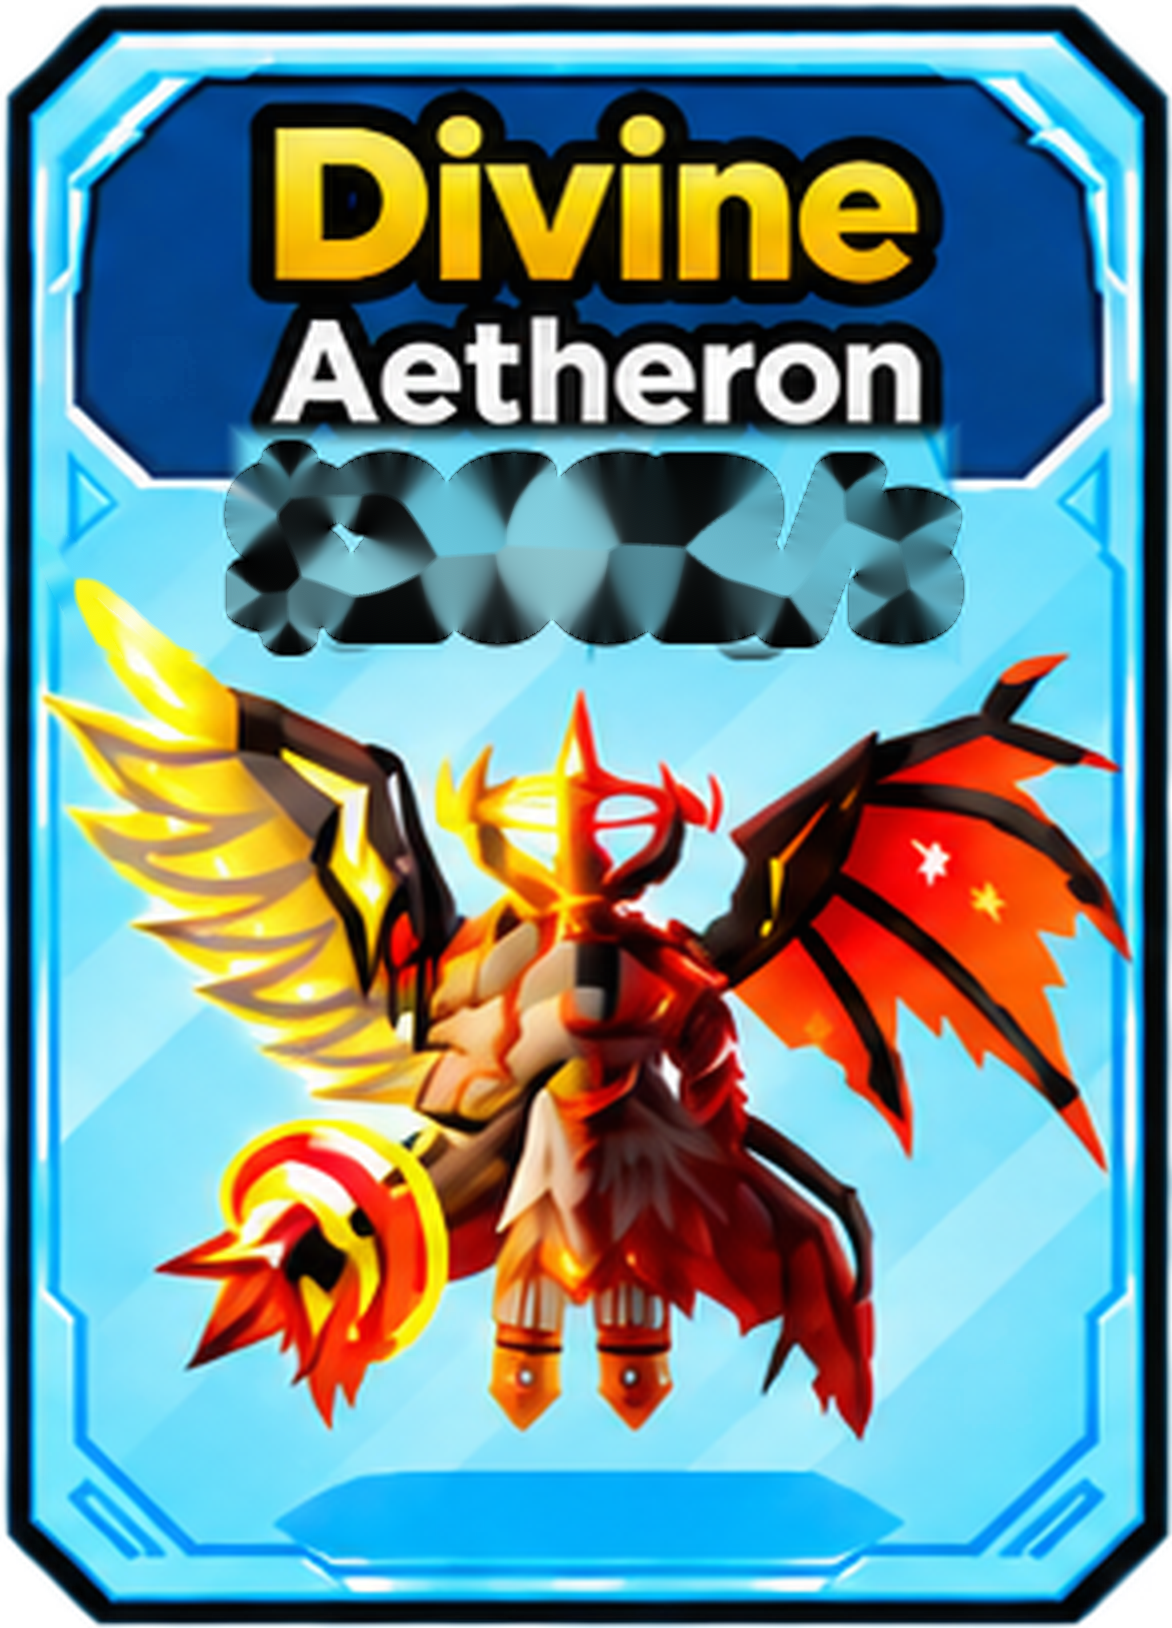
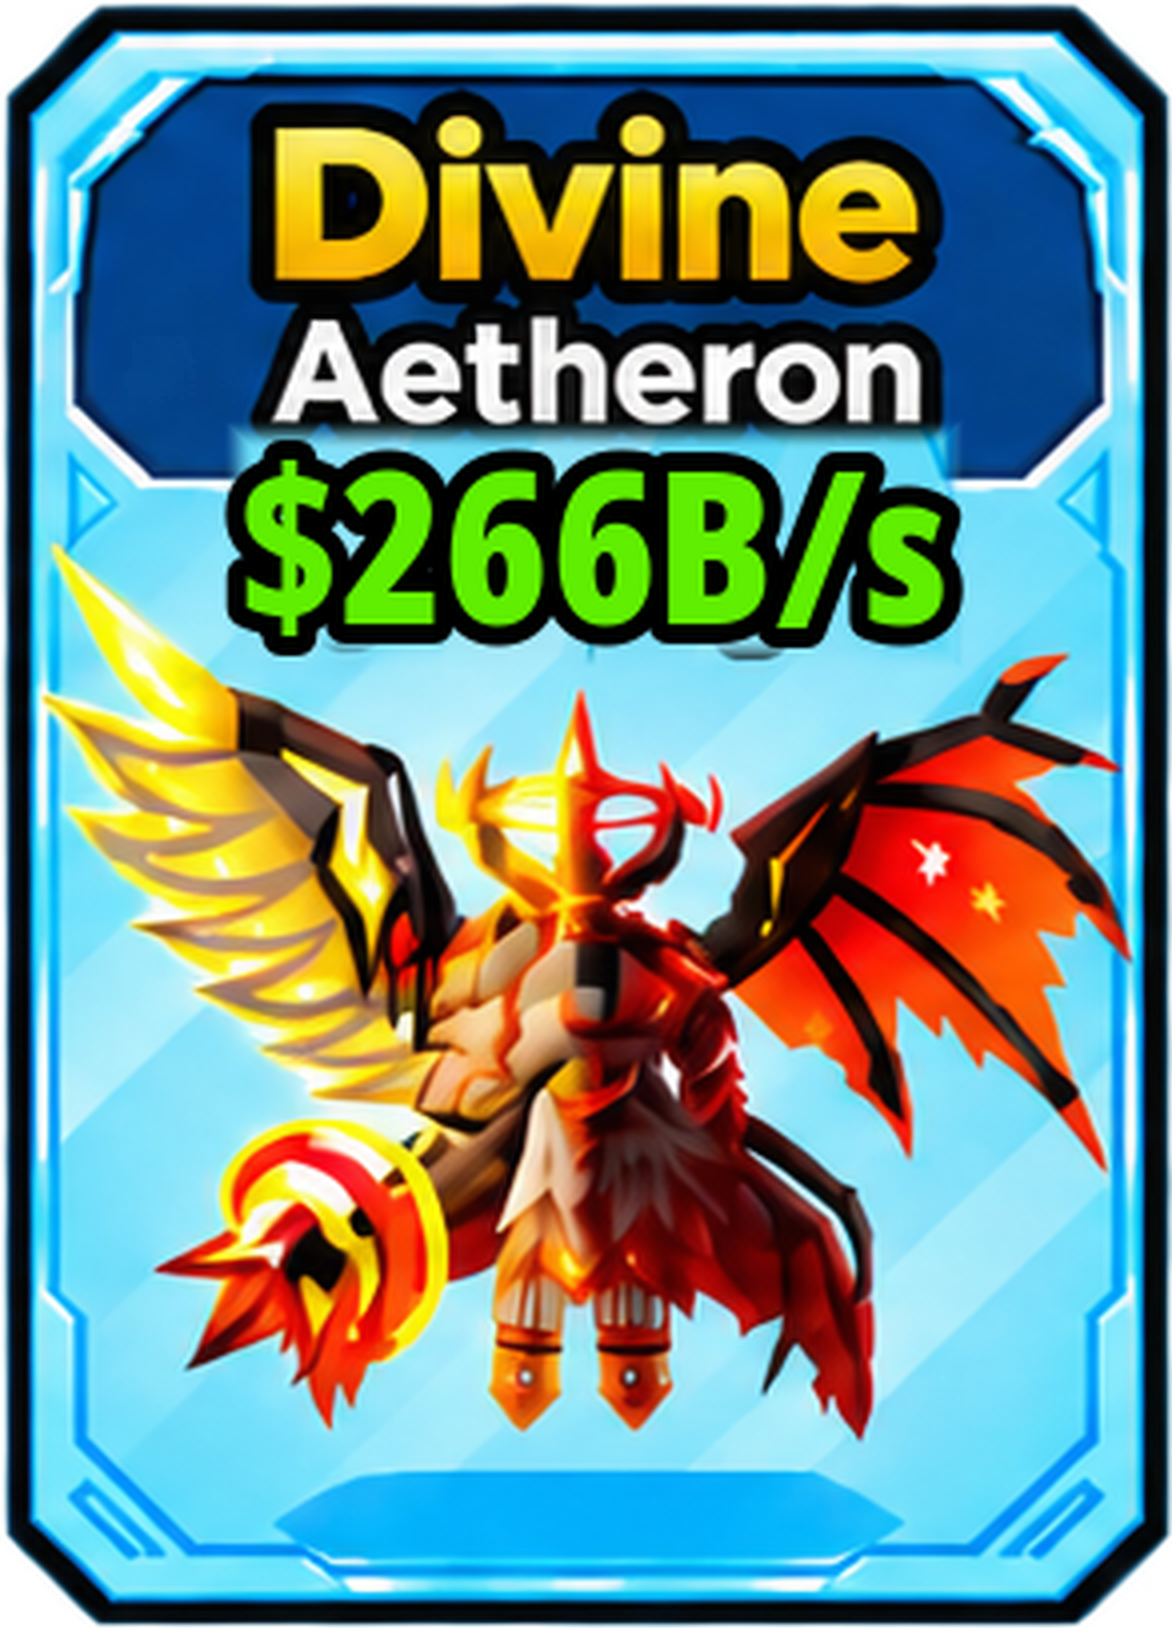
ds

Changed region(s): [[0.1843, 0.2764, 0.8294, 0.3993], [0.0307, 0.3071, 0.1536, 0.3993]]

diff --git a/index.html b/index.html
@@ -4,7 +4,7 @@
 <meta charset="utf-8">
 <meta name="viewport" content="width=device-width,initial-scale=1">
 <meta http-equiv="Cache-Control" content="no-cache, no-store, must-revalidate">
-<title>Steal An Egg Overlay V5.23 TEXT ONLY PATCH</title>
+<title>Steal An Egg Overlay V5.24 TEXT PATCH LOWER</title>
 <style>
 *{box-sizing:border-box}
 html,body{margin:0;width:100%;height:100%;background:transparent!important;overflow:hidden}
@@ -145,13 +145,40 @@ body{font-family:Arial,Helvetica,sans-serif}
   100% { background-position:0% 50%; }
 }
 /* Chỉ che dòng tiền CŨ trên giao diện. File PNG gốc không bị chỉnh sửa. */
-.price-cover{display:none!important;}
+.price-cover{
+  display:none!important;
+}
+
+.price-eraser{
+  position:absolute;
+  left:4.5%;
+  right:4.5%;
+  top:28.0%;
+  height:9.8%;
+  z-index:30;
+  display:flex;
+  align-items:center;
+  justify-content:center;
+  overflow:visible;
+  color:#A7ECF7;
+  font-family:"Arial Black","DejaVu Sans",Arial,sans-serif;
+  font-weight:1000;
+  font-size:14.0cqw;
+  line-height:.92;
+  letter-spacing:-.045em;
+  white-space:nowrap;
+  -webkit-text-stroke:.72cqw #A7ECF7;
+  paint-order:stroke fill;
+  text-shadow:none!important;
+  pointer-events:none;
+}
+
 .price-text{
   position:absolute;
   left:2.5%;
   right:2.5%;
-  top:25.0%;
-  height:14.0%;
+  top:25.6%;
+  height:13.2%;
   z-index:31;
   display:flex;
   align-items:center;
@@ -160,7 +187,7 @@ body{font-family:Arial,Helvetica,sans-serif}
   color:#35B900;
   font-family:"Arial Black","DejaVu Sans",Arial,sans-serif;
   font-weight:1000;
-  font-size:15.9cqw;
+  font-size:15.7cqw;
   line-height:.94;
   letter-spacing:-.035em;
   white-space:nowrap;
@@ -253,7 +280,8 @@ body{font-family:Arial,Helvetica,sans-serif}
           <div class="pet-aura" style="--pet-mask:url('aura_masks/kitsune.png')"></div>
         </div>
         <div class="qty-badge" data-qty></div>
-        <div class="price-cover" aria-hidden="true"></div><div class="price-text" data-price></div>
+        <div class="price-cover" aria-hidden="true"></div><div class="price-eraser">$123B/s</div>
+        <div class="price-text" data-price></div>
       </div>
     
     </div>
@@ -266,7 +294,8 @@ body{font-family:Arial,Helvetica,sans-serif}
           <div class="pet-aura" style="--pet-mask:url('aura_masks/luminous_cthulhu.png')"></div>
         </div>
         <div class="qty-badge" data-qty></div>
-        <div class="price-cover" aria-hidden="true"></div><div class="price-text" data-price></div>
+        <div class="price-cover" aria-hidden="true"></div><div class="price-eraser">$82B/s</div>
+        <div class="price-text" data-price></div>
       </div>
     
     </div>
@@ -279,7 +308,8 @@ body{font-family:Arial,Helvetica,sans-serif}
           <div class="pet-aura" style="--pet-mask:url('aura_masks/archangel.png')"></div>
         </div>
         <div class="qty-badge" data-qty></div>
-        <div class="price-cover" aria-hidden="true"></div><div class="price-text" data-price></div>
+        <div class="price-cover" aria-hidden="true"></div><div class="price-eraser">$63B/s</div>
+        <div class="price-text" data-price></div>
       </div>
     
     </div>
@@ -292,7 +322,8 @@ body{font-family:Arial,Helvetica,sans-serif}
           <div class="pet-aura" style="--pet-mask:url('aura_masks/aetheron.png')"></div>
         </div>
         <div class="qty-badge" data-qty></div>
-        <div class="price-cover" aria-hidden="true"></div><div class="price-text" data-price></div>
+        <div class="price-cover" aria-hidden="true"></div><div class="price-eraser">$87B/s</div>
+        <div class="price-text" data-price></div>
       </div>
     
     </div>
@@ -305,7 +336,8 @@ body{font-family:Arial,Helvetica,sans-serif}
           <div class="pet-aura" style="--pet-mask:url('aura_masks/world_burner_cthulhu.png')"></div>
         </div>
         <div class="qty-badge" data-qty></div>
-        <div class="price-cover" aria-hidden="true"></div><div class="price-text" data-price></div>
+        <div class="price-cover" aria-hidden="true"></div><div class="price-eraser">$63B/s</div>
+        <div class="price-text" data-price></div>
       </div>
     
     </div>
@@ -318,7 +350,8 @@ body{font-family:Arial,Helvetica,sans-serif}
           <div class="pet-aura" style="--pet-mask:url('aura_masks/shattered_colossus.png')"></div>
         </div>
         <div class="qty-badge" data-qty></div>
-        <div class="price-cover" aria-hidden="true"></div><div class="price-text" data-price></div>
+        <div class="price-cover" aria-hidden="true"></div><div class="price-eraser">$44B/s</div>
+        <div class="price-text" data-price></div>
       </div>
     
     </div>
@@ -331,7 +364,8 @@ body{font-family:Arial,Helvetica,sans-serif}
           <div class="pet-aura" style="--pet-mask:url('aura_masks/nightflame.png')"></div>
         </div>
         <div class="qty-badge" data-qty></div>
-        <div class="price-cover" aria-hidden="true"></div><div class="price-text" data-price></div>
+        <div class="price-cover" aria-hidden="true"></div><div class="price-eraser">$37B/s</div>
+        <div class="price-text" data-price></div>
       </div>
     
     </div>
@@ -350,7 +384,8 @@ body{font-family:Arial,Helvetica,sans-serif}
           <div class="pet-aura" style="--pet-mask:url('aura_masks/cthulhu.png')"></div>
         </div>
         <div class="qty-badge" data-qty></div>
-        <div class="price-cover" aria-hidden="true"></div><div class="price-text" data-price></div>
+        <div class="price-cover" aria-hidden="true"></div><div class="price-eraser">$37B/s</div>
+        <div class="price-text" data-price></div>
       </div>
     
     </div>
@@ -363,7 +398,8 @@ body{font-family:Arial,Helvetica,sans-serif}
           <div class="pet-aura" style="--pet-mask:url('aura_masks/mecha_dreadscale.png')"></div>
         </div>
         <div class="qty-badge" data-qty></div>
-        <div class="price-cover" aria-hidden="true"></div><div class="price-text" data-price></div>
+        <div class="price-cover" aria-hidden="true"></div><div class="price-eraser">$274B/s</div>
+        <div class="price-text" data-price></div>
       </div>
     
     </div></div></div>

diff --git a/config.js b/config.js
@@ -1,1 +1,1 @@
-window.SAE_CONFIG={"version":"5.23-text-only-patch","cards":[{"id":"kitsune","name":"Kitsune","base":1800000000,"box":[22,93,285,405],"dynamic":true},{"id":"luminous_cthulhu","name":"Luminous Cthulhu","base":13000000000,"box":[320,92,292,407],"dynamic":true},{"id":"archangel","name":"ArchAngel","base":5000000000,"box":[625,92,286,407],"dynamic":true},{"id":"aetheron","name":"Aetheron","base":6900000000,"box":[922,92,293,407],"dynamic":true},{"id":"world_burner_cthulhu","name":"World Burner Cthulhu","base":5000000000,"box":[1224,92,294,407],"dynamic":true},{"id":"shattered_colossus","name":"Shattered Colossus","base":3500000000,"box":[21,515,286,407],"dynamic":true},{"id":"nightflame","name":"Nightflame","base":3000000000,"box":[320,516,293,407],"dynamic":true},{"id":"luminous_eggs","name":"Luminous Eggs","base":null,"box":[625,516,285,406],"dynamic":false},{"id":"cthulhu","name":"Cthulhu","base":5000000000,"box":[923,516,292,406],"dynamic":true},{"id":"mecha_dreadscale","name":"Mecha Dreadscale","base":4000000000,"box":[1230,516,285,406],"dynamic":true}],"mutations":{"silver":{"label":"Silver","multiplier":1.2},"golden":{"label":"Golden","multiplier":2.5},"rainbow":{"label":"Rainbow","multiplier":3.5},"bloom":{"label":"Bloom","multiplier":1.25},"spirit_bloom":{"label":"Spirit Bloom","multiplier":2.5},"parasite":{"label":"Parasite","multiplier":3.0},"fractured":{"label":"Fractured","multiplier":2.75}},"backend":"https://steal-an-egg-overlay-backend.leducho1900.workers.dev","room":"sae_421045db4089999b697c52d464c44d3a"};
+window.SAE_CONFIG={"version":"5.24-text-patch-lower","cards":[{"id":"kitsune","name":"Kitsune","base":1800000000,"box":[22,93,285,405],"dynamic":true},{"id":"luminous_cthulhu","name":"Luminous Cthulhu","base":13000000000,"box":[320,92,292,407],"dynamic":true},{"id":"archangel","name":"ArchAngel","base":5000000000,"box":[625,92,286,407],"dynamic":true},{"id":"aetheron","name":"Aetheron","base":6900000000,"box":[922,92,293,407],"dynamic":true},{"id":"world_burner_cthulhu","name":"World Burner Cthulhu","base":5000000000,"box":[1224,92,294,407],"dynamic":true},{"id":"shattered_colossus","name":"Shattered Colossus","base":3500000000,"box":[21,515,286,407],"dynamic":true},{"id":"nightflame","name":"Nightflame","base":3000000000,"box":[320,516,293,407],"dynamic":true},{"id":"luminous_eggs","name":"Luminous Eggs","base":null,"box":[625,516,285,406],"dynamic":false},{"id":"cthulhu","name":"Cthulhu","base":5000000000,"box":[923,516,292,406],"dynamic":true},{"id":"mecha_dreadscale","name":"Mecha Dreadscale","base":4000000000,"box":[1230,516,285,406],"dynamic":true}],"mutations":{"silver":{"label":"Silver","multiplier":1.2},"golden":{"label":"Golden","multiplier":2.5},"rainbow":{"label":"Rainbow","multiplier":3.5},"bloom":{"label":"Bloom","multiplier":1.25},"spirit_bloom":{"label":"Spirit Bloom","multiplier":2.5},"parasite":{"label":"Parasite","multiplier":3.0},"fractured":{"label":"Fractured","multiplier":2.75}},"backend":"https://steal-an-egg-overlay-backend.leducho1900.workers.dev","room":"sae_421045db4089999b697c52d464c44d3a"};

diff --git a/control.html b/control.html
@@ -3,7 +3,7 @@
 <head>
 <meta charset="utf-8"><meta name="viewport" content="width=device-width,initial-scale=1">
 <meta http-equiv="Cache-Control" content="no-cache, no-store, must-revalidate">
-<title>Steal An Egg Control V5.23</title>
+<title>Steal An Egg Control V5.24</title>
 <style>
 *{box-sizing:border-box}
 body{margin:0;background:#0b0d11;color:#fff;font-family:Arial,Helvetica,sans-serif}
@@ -49,7 +49,7 @@ button{border:0;border-radius:10px;padding:10px 13px;font-weight:900;cursor:poin
 @media(max-width:800px){.grid{grid-template-columns:1fr}.muts{grid-template-columns:repeat(2,1fr)}}
 </style>
 </head><body><main>
-<h1>🥚 Steal An Egg Control V5.23 — FIXED</h1>
+<h1>🥚 Steal An Egg Control V5.24 — FIXED</h1>
 <div class="sub"><span class="syncstatus" id="syncStatus">● Đang kiểm tra D1...</span> 
 Weight nhập <b>1–1000</b>. <b>Weight 1 = đúng tiền gốc</b>; tăng Weight thì tự nhân theo đường cong size.
 Mutation cộng bonus theo hệ số. Weight/Mutation tự tính tiền. Đồng bộ qua Cloudflare D1, không dùng Cache API. Weight/Mutation/Bật-Tắt/x2–x10 cập nhật chung một state; x1 không hiện nhãn, Luminous Eggs không có nhãn số lượng.
@@ -481,7 +481,7 @@ allOn.onclick=()=>{for(const c of CFG.cards)state.cards[c.id].enabled=true;saveA
 allOff.onclick=()=>{for(const c of CFG.cards)state.cards[c.id].enabled=false;saveAndPublish()};
 reset.onclick=()=>{for(const c of CFG.cards){state.cards[c.id].weight=1;state.cards[c.id].mutations=[];state.cards[c.id].qty=1}saveAndPublish()};
 copyLink.onclick=async()=>{
- const u=new URL("index.html?v=523",location.href).href;
+ const u=new URL("index.html?v=524",location.href).href;
  try{await navigator.clipboard.writeText(u);copyLink.textContent="ĐÃ COPY";setTimeout(()=>copyLink.textContent="Copy Overlay Link",1200)}
  catch(_e){prompt("Copy link Overlay:",u)}
 };
